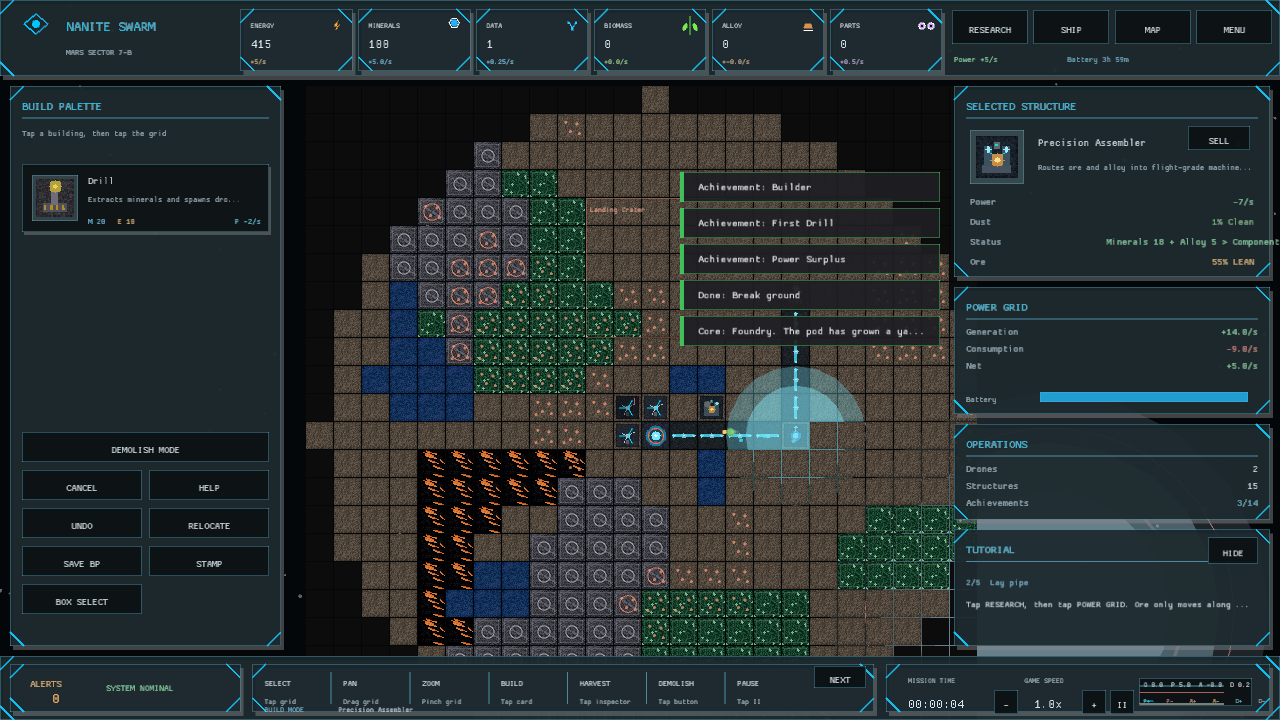
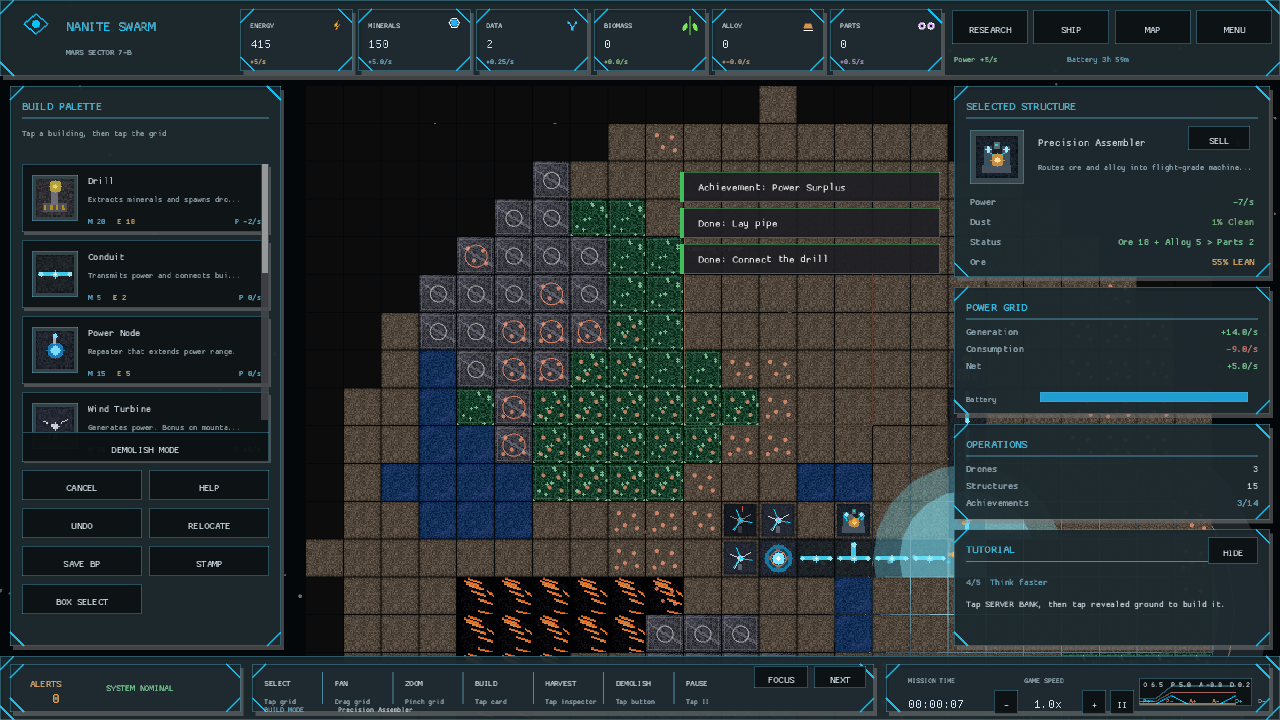
The swarm clears its sightline across the whole machine (touch focus mode and responsive HUD)
Dense factories were losing too much usable map space to the build and operations stacks, especially on compact browser windows. This adds a persistent per-world FOCUS/PANELS control that returns both sidebars to the map while preserving the resource ribbon, time controls, and every touch recovery path.

The capture harness now accepts compact window sizes and seeds focused and fully unlocked assembly scenes so these layouts remain visible in verification. Metrics coverage guards the reclaimed viewport, and the refreshed captures document both desktop and 900x600 behavior.

diff --git a/src/capture_scenes.rs b/src/capture_scenes.rs
@@ -9,12 +9,16 @@ use crate::state::{Campaign, LaunchSequence};
 use crate::{data, engine, state, Game, GamePhase};
 
 #[allow(dead_code)]
-pub const REQUIRED_CAPTURE_SCENES: [&str; 4] = ["mainmenu", "research", "logistics", "assembly"];
+pub const REQUIRED_CAPTURE_SCENES: [&str; 5] =
+    ["mainmenu", "research", "logistics", "assembly", "focus"];
 
 impl Game {
     /// Seed a specific scene for the screenshot harness.
     pub fn begin_capture_scene(&mut self, scene: &str) {
         self.capture_still = true;
+        // Batched captures reuse one game process; view-only state from one
+        // scene must not leak into the next image.
+        self.campaign.current_mut().focus_mode = false;
         match scene {
             "mainmenu" => self.phase = GamePhase::MainMenu,
             "research" => {
@@ -53,6 +57,13 @@ impl Game {
                 planet.selected_tile = drill;
                 // Nothing in hand: the quiet state of the ore overlay.
                 planet.selected_building = None;
+            }
+            "focus" | "focus_compact" => {
+                self.phase = GamePhase::Playing;
+                self.seed_logistics_scene();
+                let planet = self.campaign.current_mut();
+                planet.focus_mode = true;
+                planet.camera.zoom = 1.35;
             }
             // The same world with a Drill in hand, which brings the ground up.
             "prospect" => {
@@ -302,6 +313,20 @@ impl Game {
             "assembly" => {
                 self.phase = GamePhase::Playing;
                 self.seed_logistics_scene();
+                for tech in [
+                    "power_grid",
+                    "wind_power",
+                    "smelting",
+                    "data_processing",
+                    "advanced_research",
+                    "precision_assembly",
+                ] {
+                    if !self.research_state.unlocked.iter().any(|id| id == tech) {
+                        self.research_state.unlocked.push(tech.to_string());
+                    }
+                }
+                self.sync_building_unlocks();
+                self.sync_research_to_planet();
                 let planet = self.campaign.current_mut();
                 let Some(core) = planet.grid.find_core() else {
                     return;

diff --git a/src/screens/planetary_view/hud.rs b/src/screens/planetary_view/hud.rs
@@ -104,15 +104,17 @@ pub(super) fn draw_ui_panels(
 
     let mut ui_action = top_bar::draw(state, screen_w, metrics, theme, &colors);
 
-    build_palette::draw(state, theme, textures, metrics, &colors, screen_h);
+    if !state.focus_mode {
+        build_palette::draw(state, theme, textures, metrics, &colors, screen_h);
 
-    let right = RightStackLayout::compute(screen_w, screen_h, metrics);
-    inspector_panel::draw(state, hovered_pos, textures, theme, &colors, &right);
-    let ops_action = power_ops_panel::draw(state, theme, &colors, &right);
-    if ui_action == PlanetaryAction::None {
-        ui_action = ops_action;
+        let right = RightStackLayout::compute(screen_w, screen_h, metrics);
+        inspector_panel::draw(state, hovered_pos, textures, theme, &colors, &right);
+        let ops_action = power_ops_panel::draw(state, theme, &colors, &right);
+        if ui_action == PlanetaryAction::None {
+            ui_action = ops_action;
+        }
+        directive_panel::draw(state, directive, theme, &colors, &right);
     }
-    directive_panel::draw(state, directive, theme, &colors, &right);
 
     match bottom_bar::draw(state, screen_w, screen_h, theme, metrics, &colors) {
         bottom_bar::ClockAction::TogglePause => state.toggle_pause(),
@@ -121,6 +123,7 @@ pub(super) fn draw_ui_panels(
         bottom_bar::ClockAction::NextEvent => {
             state.fast_forward_to_next_event();
         }
+        bottom_bar::ClockAction::ToggleFocus => state.focus_mode = !state.focus_mode,
         bottom_bar::ClockAction::None => {}
     }
 

diff --git a/src/screens/planetary_view/metrics.rs b/src/screens/planetary_view/metrics.rs
@@ -25,6 +25,7 @@ impl HudMetrics {
         screen_w: f32,
         screen_h: f32,
         camera: Camera,
+        focus_mode: bool,
     ) -> Self {
         let compact_height = screen_h < 760.0;
         let compact_width = screen_w < 1260.0;
@@ -37,12 +38,16 @@ impl HudMetrics {
             } else {
                 theme.layout.top_bar_height
             },
-            left_panel_width: if compact_width {
+            left_panel_width: if focus_mode {
+                0.0
+            } else if compact_width {
                 260.0
             } else {
                 theme.layout.left_panel_width
             },
-            right_panel_width: if compact_width {
+            right_panel_width: if focus_mode {
+                0.0
+            } else if compact_width {
                 292.0
             } else {
                 theme.layout.right_panel_width
@@ -88,6 +93,9 @@ impl HudMetrics {
         )
     }
 }
+
+#[cfg(test)]
+mod tests;
 
 /// Convert screen position to grid position
 pub(super) fn screen_to_grid(screen_x: f32, screen_y: f32, metrics: HudMetrics) -> Option<GridPos> {

diff --git a/src/screens/planetary_view.rs b/src/screens/planetary_view.rs
@@ -54,7 +54,7 @@ pub fn render_planetary_view(
     // Move the camera first, then lay out the frame around where it ended up,
     // so drawing and hit-testing agree about which tile is under the cursor.
     let (mouse_x, mouse_y) = mouse_position();
-    let layout = HudMetrics::for_screen(theme, screen_w, screen_h, state.camera);
+    let layout = HudMetrics::for_screen(theme, screen_w, screen_h, state.camera, state.focus_mode);
     let cursor_over_ui = is_cursor_over_ui(mouse_x, mouse_y, screen_w, screen_h, layout);
     let touch = state.touch_gesture.update();
     if touch.active && !state.touch_gesture_routed {
@@ -73,7 +73,7 @@ pub fn render_planetary_view(
         touch_camera_active,
     );
 
-    let metrics = HudMetrics::for_screen(theme, screen_w, screen_h, state.camera);
+    let metrics = HudMetrics::for_screen(theme, screen_w, screen_h, state.camera, state.focus_mode);
     let hovered_pos = if cursor_over_ui {
         None
     } else {

diff --git a/src/screens/planetary_view/hud/bottom_bar.rs b/src/screens/planetary_view/hud/bottom_bar.rs
@@ -19,6 +19,7 @@ pub(super) enum ClockAction {
     Faster,
     Slower,
     NextEvent,
+    ToggleFocus,
 }
 
 #[must_use]
@@ -145,7 +146,7 @@ pub(super) fn draw(
             ("PAUSE", "Tap II"),
         ]
     };
-    let text_controls_w = (controls_w - 70.0).max(120.0);
+    let text_controls_w = (controls_w - 130.0).max(120.0);
     let slot_w = text_controls_w / controls.len() as f32;
     for (index, (label, hint)) in controls.iter().enumerate() {
         let x = controls_x + index as f32 * slot_w + 12.0;
@@ -174,6 +175,13 @@ pub(super) fn draw(
         &next_label,
     ) {
         clock = ClockAction::NextEvent;
+    }
+    if draw_hud_button(
+        theme,
+        Rect::new(controls_x + controls_w - 120.0, bottom_y + 10.0, 54.0, 22.0),
+        if state.focus_mode { "PANELS" } else { "FOCUS" },
+    ) {
+        clock = ClockAction::ToggleFocus;
     }
 
     draw_hud_panel(

diff --git a/src/state/game_state.rs b/src/state/game_state.rs
@@ -303,6 +303,10 @@ pub struct PlanetState {
     pub camera_drag_anchor: Option<(f32, f32)>,
     #[serde(skip, default)]
     pub show_help: bool,
+    /// Hide both side stacks while planning dense routes. Persisted per world
+    /// because a returning touch player should keep the viewport they chose.
+    #[serde(default)]
+    pub focus_mode: bool,
     #[serde(skip, default)]
     pub build_palette_scroll: ScrollArea,
     /// Where the Records screen's log is scrolled to.
@@ -474,6 +478,7 @@ impl PlanetState {
             touch_gesture_routed: false,
             camera_drag_anchor: None,
             show_help: false,
+            focus_mode: false,
             build_palette_scroll: ScrollArea::new(),
             log_scroll: ScrollArea::new(),
             records_scroll: ScrollArea::new(),

diff --git a/src/screens/planetary_view/metrics/tests.rs b/src/screens/planetary_view/metrics/tests.rs
@@ -1,0 +1,15 @@
+use super::*;
+
+#[test]
+fn focus_mode_returns_both_sidebar_widths_to_the_map() {
+    let theme = UiTheme::default();
+    let normal = HudMetrics::for_screen(&theme, 1280.0, 720.0, Camera::default(), false);
+    let focused = HudMetrics::for_screen(&theme, 1280.0, 720.0, Camera::default(), true);
+
+    let normal_view = normal.viewport(1280.0, 720.0);
+    let focused_view = focused.viewport(1280.0, 720.0);
+    assert!(focused_view.0 > normal_view.0 + 500.0);
+    assert_eq!(focused.left_panel_width, 0.0);
+    assert_eq!(focused.right_panel_width, 0.0);
+    assert_eq!(focused.base_offset_x(), focused.panel_gap * 2.0);
+}

diff --git a/src/capture_scenes/tests.rs b/src/capture_scenes/tests.rs
@@ -4,6 +4,6 @@ use super::*;
 fn required_capture_scenes_are_registered() {
     assert_eq!(
         REQUIRED_CAPTURE_SCENES,
-        ["mainmenu", "research", "logistics", "assembly"]
+        ["mainmenu", "research", "logistics", "assembly", "focus"]
     );
 }

diff --git a/README.md b/README.md
@@ -23,7 +23,8 @@ Grow the nanite core from a small foothold into a planetary-scale swarm without 
 Every required action has a visible tap/click control. Tap a building card and
 then the grid to build; drag the map to pan, pinch or use the visible zoom
 controls to zoom, and use the bottom command bar for selection, demolition,
-blueprints, relocation, undo, speed, and pause.
+blueprints, relocation, undo, speed, and pause. Tap FOCUS to collapse both
+sidebars for route planning, then tap PANELS to restore them.
 
 Keyboard shortcuts are optional:
 
